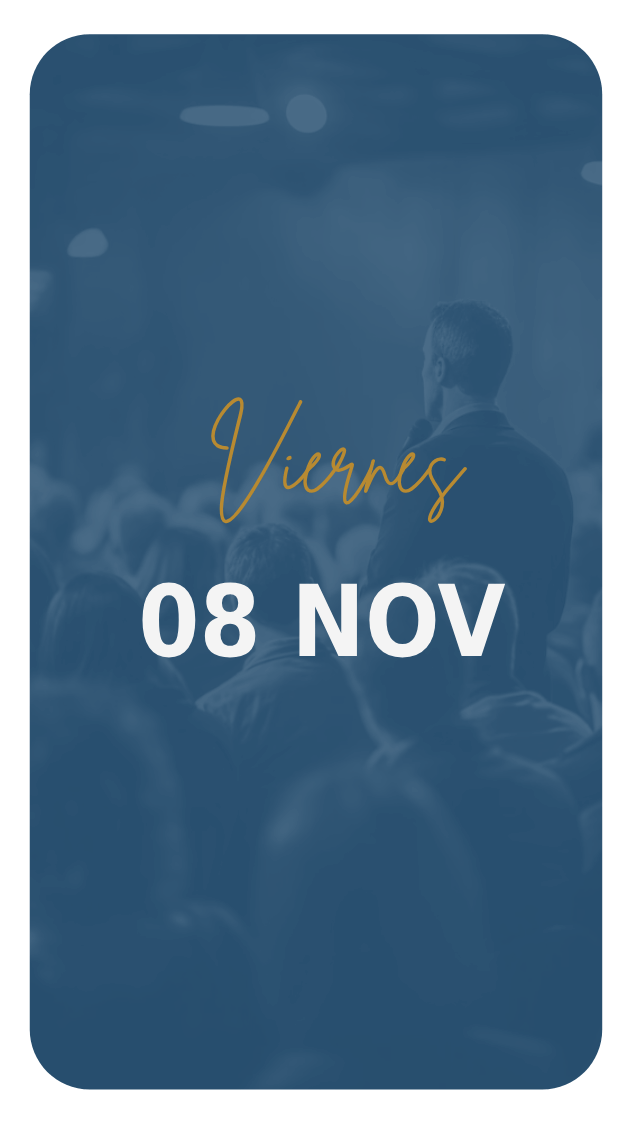
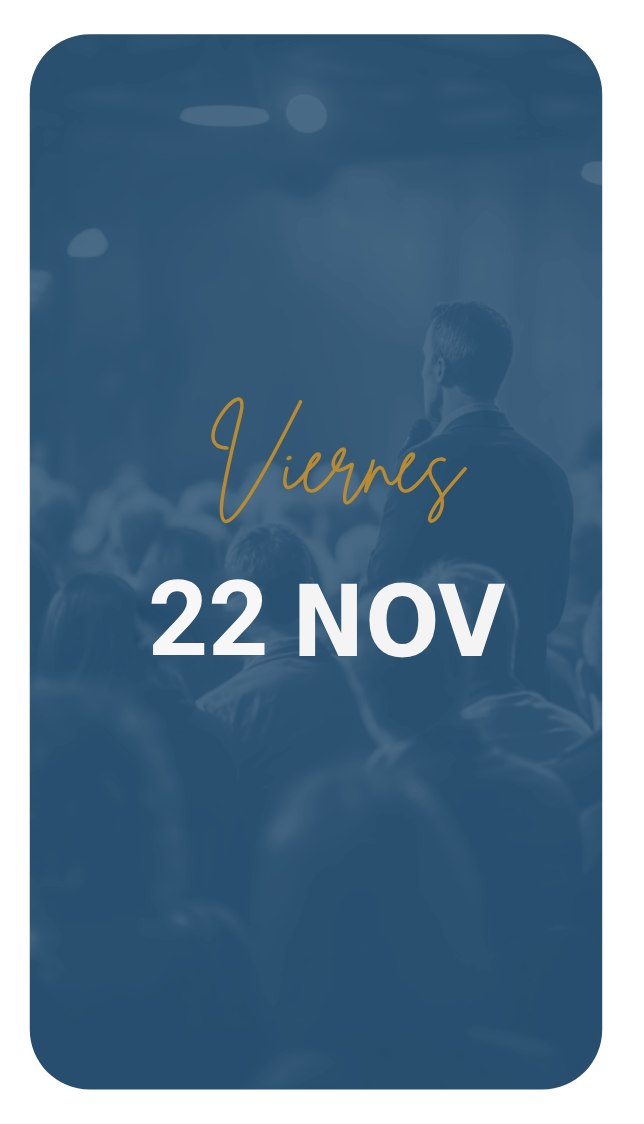
Correcciones

Changed region(s): [[0.2174, 0.4982, 0.4037, 0.5916]]

diff --git a/index.html b/index.html
@@ -197,7 +197,7 @@
                 >
                   <img src="./assets/programate-04.png" alt="" />
                 </div>
-                <div
+                <!-- <div
                   class="item"
                   data-aos="zoom-in-up"
                   data-aos-duration="1000"
@@ -210,9 +210,7 @@
                   data-aos-duration="1000"
                 >
                   <img src="./assets/programate-06.png" alt="" />
-                </div>
-              </div>
-              <div class="items-3">
+                </div> -->
                 <div
                   class="item"
                   data-aos="zoom-in-right"
@@ -220,21 +218,8 @@
                 >
                   <img src="./assets/programate-07.png" alt="" />
                 </div>
-                <div
-                  class="item"
-                  data-aos="zoom-in-up"
-                  data-aos-duration="1000"
-                >
-                  <img src="./assets/programate-08.png" alt="" />
-                </div>
-                <div
-                  class="item"
-                  data-aos="zoom-in-left"
-                  data-aos-duration="1000"
-                >
-                  <img src="./assets/programate-09.png" alt="" />
-                </div>
               </div>
+
             </div>
           </div>
         </section>
@@ -243,13 +228,13 @@
       <div id="actividades" class="background">
         <section>
           <div class="section-agenda">
-            <div
+            <!-- <div
               class="card-agenda"
               data-aos="zoom-in-up"
               data-aos-duration="1000"
             >
               <img src="./assets/agenda-01.png" alt="" />
-            </div>
+            </div> -->
             <div
               class="card-agenda"
               data-aos="zoom-in-up"
@@ -472,24 +457,22 @@
           <p>Un evento organizado por <img class="organizado" src="./assets/ceniteg-logo.png" alt=""></p>
           <p>Síguenos en:</p>
             <div class="redes">
-              <img src="./assets/logo-instagram-white.png" alt="">
-              <img src="./assets/logo-facebook-white.png" alt="">
-              <img src="./assets/logo-linkedin-white.png" alt="">
-              <img src="./assets/logo-youtube-white.png" alt="">
+              <a href="https://www.instagram.com/cissoma_peru"><img src="./assets/logo-instagram-white.png" alt=""></a>
+              <a href="https://www.facebook.com/CISSOMA"><img src="./assets/logo-facebook-white.png" alt=""></a>
+              <a href="https://www.linkedin.com/in/cissoma-congreso-internacional-de-seguridad-salud-ocupacional-y-medio-ambiente-274110207/"><img src="./assets/logo-linkedin-white.png" alt=""></a>
             </div>
         </div>
         <div class="trabaja">
           <div class="item">
             <span>¿Tienes un proyecto?</span>
             <p>Inspira con tu visión y transforma el mundo</p>
-            <p>Ingresa tu correo electrónico</p>
-            <input type="email">
+            <p>informe.cissoma@gmail.com</p>
           </div>
-          <div class="item">
+          <!-- <div class="item">
             <span>¡Trabaja con Nosotro!</span>
             <p>Postula a nuestra bolsa de trabajo</p>
             <p>info@ceniteg.com</p>
-          </div>
+          </div> -->
         </div>
         <div class="nav">
           <nav
@@ -513,7 +496,7 @@
           </div>
           <div class="item">
             <img src="./assets/icon-mail.png" alt="">
-            <p>info@ceniteg.com</p>
+            <p>informe.cissoma@gmail.com</p>
           </div>
         </div>
     </footer>

diff --git a/js/index.js b/js/index.js
@@ -7,7 +7,7 @@ document.addEventListener('DOMContentLoaded', function() {
   }, 100);
 
     // Fecha del evento en formato dd/mm/aaaa
-    const eventoFecha = '07/11/2024';
+    const eventoFecha = '22/11/2024';
   
     // Función para convertir la fecha en un objeto Date
     function convertirFecha(fecha) {
